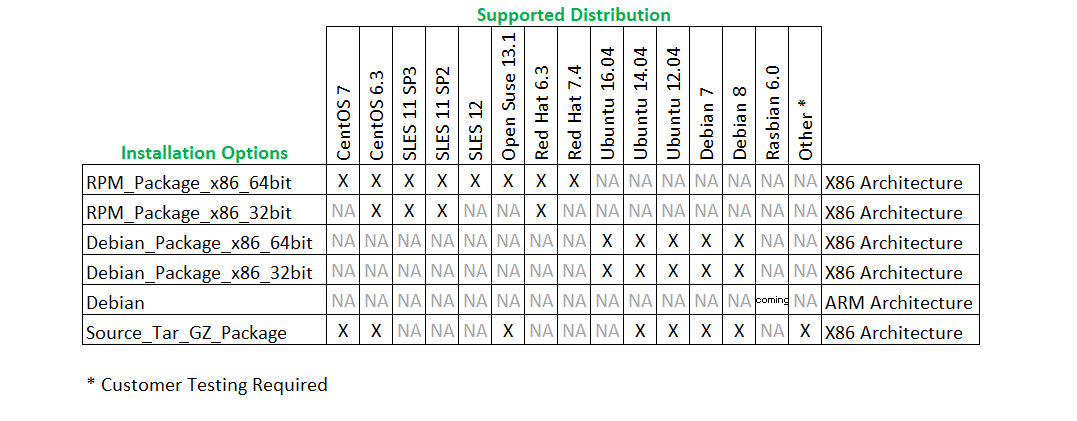
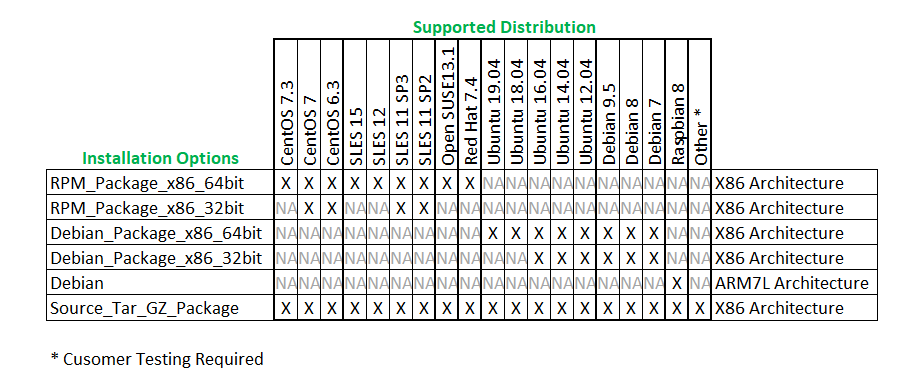
[DCS Scanners] Linux SDK 05/2020 revision A

Changed region(s): [[0.0303, 0.0, 0.9404, 0.8329], [0.0607, 0.8946, 0.3034, 0.9563]]

diff --git a/dcs/scanners/sdk-linux/about/index.html b/dcs/scanners/sdk-linux/about/index.html
@@ -62,7 +62,7 @@
                                 <a href="/dcs/scanners/sdk-linux/setup/">Setup</a>
                             </li>
                             <li>
-                                <a href="/dcs/scanners/sdk-linux/utilities/">Test Utilities and Source Code</a>
+                                <a href="/dcs/scanners/sdk-linux/utilities/">Test Utilities</a>
                             </li>
                             <li>
                                 <a href="/dcs/scanners/sdk-linux/samples/">Sample Source Code</a>
@@ -167,27 +167,32 @@
 
                                                     <h2 id="supporteddevices" class="anchor"><a class="heading-anchor" href="#supporteddevices"><span></span></a>Supported Devices</h2>
                                                     <ul>
+                                                        <li>DS2208-HC</li>
                                                         <li>DS2208-SR</li>
+                                                        <li>DS2278-HC</li>
                                                         <li>DS2278-SR</li>
                                                         <li>DS3608-DP DS3678-DP Ultra Rugged Scanners</li>
+                                                        <li>DS3608-DPA</li>
+                                                        <li>DS3608-DPX</li>
                                                         <li>DS3608-ER DS3678-ER Ultra Rugged Scanners</li>
                                                         <li>DS3608-HD DS3678-HD Ultra Rugged Scanners</li>
                                                         <li>DS3608-HP DS3678-HP Ultra Rugged Scanners</li>
                                                         <li>DS3608-SR DS3678-SR Ultra Rugged Scanners</li>
+                                                        <li>DS3678-DPA</li>
+                                                        <li>DS3678-DPX</li>
+                                                        <li>DS457 Series</li>
                                                         <li>DS8108-HC</li>
                                                         <li>DS8108-SR</li>
                                                         <li>DS8178-HC</li>
                                                         <li>DS8178-SR</li>
                                                         <li>LI2208</li>
-                                                        <li>LI2208-HC</li>
-                                                        <li>LI36X8-SR</li>
+                                                        <li>LI3678-ER</li>
+                                                        <li>LI3678-SR</li>
                                                         <li>MP6000 Scanner Scale</li>
                                                         <li>MP6200 Scanner Scale</li>
-                                                        <li>MP7000 Scanner Scale</li>
+                                                        <li>MP7000 Multi-Plane Scanner</li>
                                                         <li>MX101-SR00004ZZWR</li>
-                                                        <li>SE4500 OEM Array Imager Scan Engine</li>
                                                         <li>Symbol DS4308</li>
-                                                        <li>Symbol DS4308-HC</li>
                                                         <li>Symbol DS7708</li>
                                                         <li>Symbol DS9808 Hybrid Presentation Imager</li>
                                                         <li>Symbol LS2208 General Purpose Bar Code Scanner</li>
@@ -202,8 +207,114 @@
                                                     <hr>
 
                                                     <h2 id="versionhistory" class="anchor"><a class="heading-anchor" href="#versionhistory"><span></span></a>Version History</h2>
-                                                    <p>Click the link below.</p>
-                                                    <a href="https://www.zebra.com/content/dam/zebra_new_ia/en-us/software/developer-tools/scanner-sdk-for-linux/release-notes-linux-sdk.pdf"  target="_blank">https://www.zebra.com/content/dam/zebra_new_ia/en-us/software/developer-tools/scanner-sdk-for-linux/release-notes-linux-sdk.pdf</a></p>
+                                                    
+                                                    <h3 id="version4-4-1-8" class="anchor">Version 4.4.1-8 – 04/2020</h3>
+                                                    <ol>
+                                                        <li>Added option for enabling new Zebra HID API instead of using native OS provided HID API. Zebra HID API enabled through a configuration setting, switching from libusb to hidraw.</li>
+                                                        <li>Add support for additional distributions: Raspbian 8 and ARM7L (32-bit ARM processor). Note this Linux OS runs on Raspberry PI 3.0 hardware.</li>
+                                                        <li>Bug fix – Resolved app responding delay by sending the Direct I/O commands using the HID API directly from the comlib to the scanner.</li>
+                                                        <li>Bug fix - Synchronization block introduce when consuming the events from CoreScanner to JPOS driver. Otherwise, the single core POS system is missing different events from different logical devices (JPOS)</li>
+                                                    </ol>
+                                                    
+                                                    <h3 id="version4-4-1-4" class="anchor">Version 4.4.1-4 – 01/2020</h3>
+                                                    <ol>
+                                                        <li>Added ability to discover, communicate and manage a third level cascaded device. The SDK now supports connecting cordless scanners like a DS2278 and cradle to a MP7000. The MP7000 is connected to the host.</li>
+                                                    </ol>
+                                                    
+                                                    <h3 id="version4-4-1-2" class="anchor">Version 4.4.1-2 – 10/2019</h3>
+                                                    <ol>
+                                                        <li>Added "DotCode" and "GridMatrix" symbology support to JPOS and SDK Sample Applications. Note the Linux SDK already supported these symbologies.</li>
+                                                        <li>Added Java 12 UI enhancements to JPOS Sample Application. Note no change required in the JPOS driver.</li>
+                                                    </ol>
+                                                    
+                                                    <h3 id="version4-4-0-18" class="anchor">Version 4.4-0-18 – 08/2019</h3>
+                                                    <ol>
+                                                        <li>Added Scale Live Weight event support for Multi-Plane scanners.</li>
+                                                        <li>Vendor specific capability, ‘CapStatusUpdate’ enabled in JPOS Scale driver.</li>
+                                                        <li>Implemented ‘StatusNotify’ property in JPOS driver.</li>
+                                                    </ol>
+                                                    
+                                                    <h3 id="version4-4-0-15" class="anchor">Version 4.4.0-15 – 06/2019</h3>
+                                                    <ol>
+                                                        <li>Added get next Attribute RSM command support in CoreScanner.</li>
+                                                    </ol>
+                                                    
+                                                    <h3 id="version4-4-0-14" class="anchor">Version 4.4.0-14 – 06/2019</h3>
+                                                    <ol>
+                                                        <li>"EAN13 Supplementary of 5" symbology support added into JPOS Sample Application.</li>
+                                                    </ol>
+                                                    
+                                                    <h3 id="version4-4-0" class="anchor">Version 4.4.0 – 03/2019</h3>
+                                                    <ol>
+                                                        <li>Added JPOS 1.14 standard compatibility for the JPOS driver.</li>
+                                                        <li>Introduced a JPOS based asset query capability (model #, serial #, date of manufacture, firmware version).</li>
+                                                    </ol>
+                                                    
+                                                    <h3 id="version4-3-3" class="anchor">Version 4.3.3 – 01/2019</h3>
+                                                    <ol>
+                                                        <li>Enhanced Linux log file format to mirror Zebra’s Windows SDK logging format</li>
+                                                        <li>    
+                                                            <p>Added ability to customize logging capabilities via the CoreScanner configuration file. Settings include</p>
+                                                            <ul>
+                                                                <li>Log file storage path</li>
+                                                                <li>Number of stored log file. For example, save the last 50 files.</li>
+                                                            </ul>
+                                                        </li>
+                                                    </ol>
+                                                    
+                                                    <h3 id="version4-3-1" class="anchor">Version 4.3.1 – 08/2018</h3>
+                                                    <ol>
+                                                        <li>Added support for JPOS Scale Asynchronized Read Weight -1 (forever) timeout support.</li>
+                                                        <li>Added support for Intelligent Document Capture (IDC).</li>
+                                                        <li>Added ability to specify an on board udev library using the CoreScanner’s configuration file instead of the system default.</li>
+                                                    </ol>
+
+                                                    <h3 id="version4-2-4" class="anchor">Version 4.2.4 – 04/2018</h3>
+                                                    <ol>
+                                                        <li>JPOS Scale Read Weight Asynchronized mode support.</li>
+                                                        <li>
+                                                            <p>JPOS Statistics reporting support for Scale.</p>
+                                                            <p>Note C++ applications cannot be compiled with C++ 11 based compilers without setting _GLIBCXX_USE_CXX11_ABI macro to 0. Below definition will be used to set ABI to the old C++ version.</p>
+                                                            #define _GLIBCXX_USE_CXX11_ABI 0
+                                                        </li>
+                                                    </ol>
+
+                                                    <h3 id="version4-1-11" class="anchor">Version 4.1.11 – 01/2018</h3>
+                                                    <ol>
+                                                        <li>Host variant switching from CDC to management modes.</li>
+                                                    </ol>
+
+                                                    <h3 id="version4-1-0" class="anchor">Version 4.1.0 – 10/2017</h3>
+                                                    <ol>
+                                                        <li>Support for custom PIDs.</li>
+                                                    </ol>
+
+                                                    <h3 id="version4-0-0" class="anchor">Version 4.0.0 – 05/2017</h3>
+                                                    <ol>
+                                                        <li>Source tarball.</li>
+                                                        <li>Install Verifier application added.</li>
+                                                    </ol>
+
+                                                    <h3 id="version3-0-0" class="anchor">Version 3.0.0 – 08/2016</h3>
+                                                    <ol>
+                                                        <li>IBM TT, IBM HID, SNAPI firmware download support.</li>
+                                                        <li>SNAPI fast firmware downloads support.</li>
+                                                        <li>SNAPI Imaging and Video capturing.</li>
+                                                        <li>API events like PNP events.</li>
+                                                        <li>Detecting HIDKB devices.</li>
+                                                    </ol>
+
+                                                    <h3 id="version2-0-0" class="anchor">Version 2.0.0 – 02/2016</h3>
+                                                    <ol>
+                                                        <li>Existing drivers were rebranded from Motorola to Zebra.</li>
+                                                    </ol>
+
+                                                    <h3 id="version1-3-0" class="anchor">Version 1.3.0 – 08/2015</h3>
+                                                    <ol>
+                                                        <li>Supports for Ubuntu 14.04, Ubuntu 12.04, SLES 11, CentOS 6.3 distributions.</li>
+                                                        <li>Concurrent application support for Scanner and Scale of MP6200 in JPOS.</li>
+                                                        <li>Cascaded device support for MP6200, Presentation Cradle and Standard Cradle.</li>
+                                                    </ol>
 
                                                     <hr>
 
@@ -230,6 +341,7 @@
                                                             <th>USB SNAPI</th>
                                                             <th>USB HID Keyboard</th>
                                                             <th>USB IBM Table-top</th>
+                                                            <th>USB IBM Handheld</th>
                                                         </tr>
                                                         <tr>
                                                             <td>Data</td>

diff --git a/dcs/scanners/sdk-linux/setup/index.html b/dcs/scanners/sdk-linux/setup/index.html
@@ -62,7 +62,7 @@
                                 <a href="/dcs/scanners/sdk-linux/setup/">Setup</a>
                             </li>
                             <li>
-                                <a href="/dcs/scanners/sdk-linux/utilities/">Test Utilities and Source Code</a>
+                                <a href="/dcs/scanners/sdk-linux/utilities/">Test Utilities</a>
                             </li>
                             <li>
                                 <a href="/dcs/scanners/sdk-linux/samples/">Sample Source Code</a>
@@ -156,6 +156,7 @@
                                                     <p>The SDK installation package installs the following SDK components to the default locations</p>
 
                                                     <ul>
+                                                        <li>CoreScanner core components and rivers (USB, Imaging)</li>
                                                         <li>Zebra Scanner SDK core components and drivers (USB API (libudev and libusb), imaging drivers)</li>
                                                         <li>JPOS drivers (scanner and scale)</li>
                                                         <li>Link to the latest developer's guide</li>
@@ -233,6 +234,8 @@
                                                         <li>Debian package-based installers - Installable only on Debian-based Linux distributions</li>
                                                         <li>Source tarball based installers - Installable on any Linux distribution. You are prompted to install all required dependent packages when configuring the source tarball extraction for installation.</li>
                                                     </ul>
+
+                                                    <p>Please refer the <a href="../about/#supportedlinuxdistribution">supported distribution</a> matrix for more details.</p>
 
                                                     <h3 id="choosinganintaller" class="anchor"><a class="heading-anchor" href="#choosinganintaller"><span></span></a>Choosing an Installer</h3>
 

diff --git a/dcs/scanners/sdk-linux/utilities/index.html b/dcs/scanners/sdk-linux/utilities/index.html
@@ -62,7 +62,7 @@
                                 <a href="/dcs/scanners/sdk-linux/setup/">Setup</a>
                             </li>
                             <li>
-                                <a href="/dcs/scanners/sdk-linux/utilities/">Test Utilities and Source Code</a>
+                                <a href="/dcs/scanners/sdk-linux/utilities/">Test Utilities</a>
                             </li>
                             <li>
                                 <a href="/dcs/scanners/sdk-linux/samples/">Sample Source Code</a>
@@ -91,7 +91,7 @@
                             <div class="col-sm-3 hidden-sm hidden-xs" id="sidebar">
                                 <nav id="toc" data-toggle="toc" data-spy="affix" style="height: 75%; max-width: 225px; overflow-y: auto; ">
                                     <ul class="nav">
-                                        <li><strong>Test Utilities and Source Code</strong></li>
+                                        <li><strong>Test Utilities</strong></li>
                                     </ul>
                                 </nav>                    
                                 <script type="text/javascript">
@@ -119,7 +119,7 @@
                                         <section id="cta" class="wow fadeIn">
                                             <div class="">
                                                 <h1 id="testutilitiesandsourcecode" class="anchor">
-                                                    <a class="heading-anchor" href="#testutilitiesandsourcecode"><span></span></a>Test Utilities and Source Code
+                                                    <a class="heading-anchor" href="#testutilitiesandsourcecode"><span></span></a>Test Utilities
                                                 </h1>
                                             </div>
                                         </section>                    

diff --git a/dcs/scanners/sdk-linux/api/index.html b/dcs/scanners/sdk-linux/api/index.html
@@ -8,7 +8,7 @@
         <meta name="google-site-verification" content="i4B78BrWnNy8ShJwe5feRW3jO3HE6gfYlYqYbxfl8yY">
         <meta name="msvalidate.01" content="6B651B00161BCE79B8950AC09D5C4C75">
         <meta title="APIs">
-        <title>Scanner SDK for Android - APIs - Zebra Technologies</title>
+        <title>Scanner SDK for Linux - APIs - Zebra Technologies</title>
         <!-- core CSS -->
         <link href="/css/bootstrap.min.css" rel="stylesheet">
         <link href="/css/font-awesome.min.css" rel="stylesheet">
@@ -61,7 +61,7 @@
                                 <a href="/dcs/scanners/sdk-linux/setup/">Setup</a>
                             </li>
                             <li>
-                                <a href="/dcs/scanners/sdk-linux/utilities/">Test Utilities and Source Code</a>
+                                <a href="/dcs/scanners/sdk-linux/utilities/">Test Utilities</a>
                             </li>
                             <li>
                                 <a href="/dcs/scanners/sdk-linux/samples/">Sample Source Code</a>

diff --git a/dcs/scanners/sdk-linux/remote-mgt/index.html b/dcs/scanners/sdk-linux/remote-mgt/index.html
@@ -62,7 +62,7 @@
                                 <a href="/dcs/scanners/sdk-linux/setup/">Setup</a>
                             </li>
                             <li>
-                                <a href="/dcs/scanners/sdk-linux/utilities/">Test Utilities and Source Code</a>
+                                <a href="/dcs/scanners/sdk-linux/utilities/">Test Utilities</a>
                             </li>
                             <li>
                                 <a href="/dcs/scanners/sdk-linux/samples/">Sample Source Code</a>

diff --git a/dcs/scanners/sdk-linux/samples/index.html b/dcs/scanners/sdk-linux/samples/index.html
@@ -62,7 +62,7 @@
                                 <a href="/dcs/scanners/sdk-linux/setup/">Setup</a>
                             </li>
                             <li>
-                                <a href="/dcs/scanners/sdk-linux/utilities/">Test Utilities and Source Code</a>
+                                <a href="/dcs/scanners/sdk-linux/utilities/">Test Utilities</a>
                             </li>
                             <li>
                                 <a href="/dcs/scanners/sdk-linux/samples/">Sample Source Code</a>
